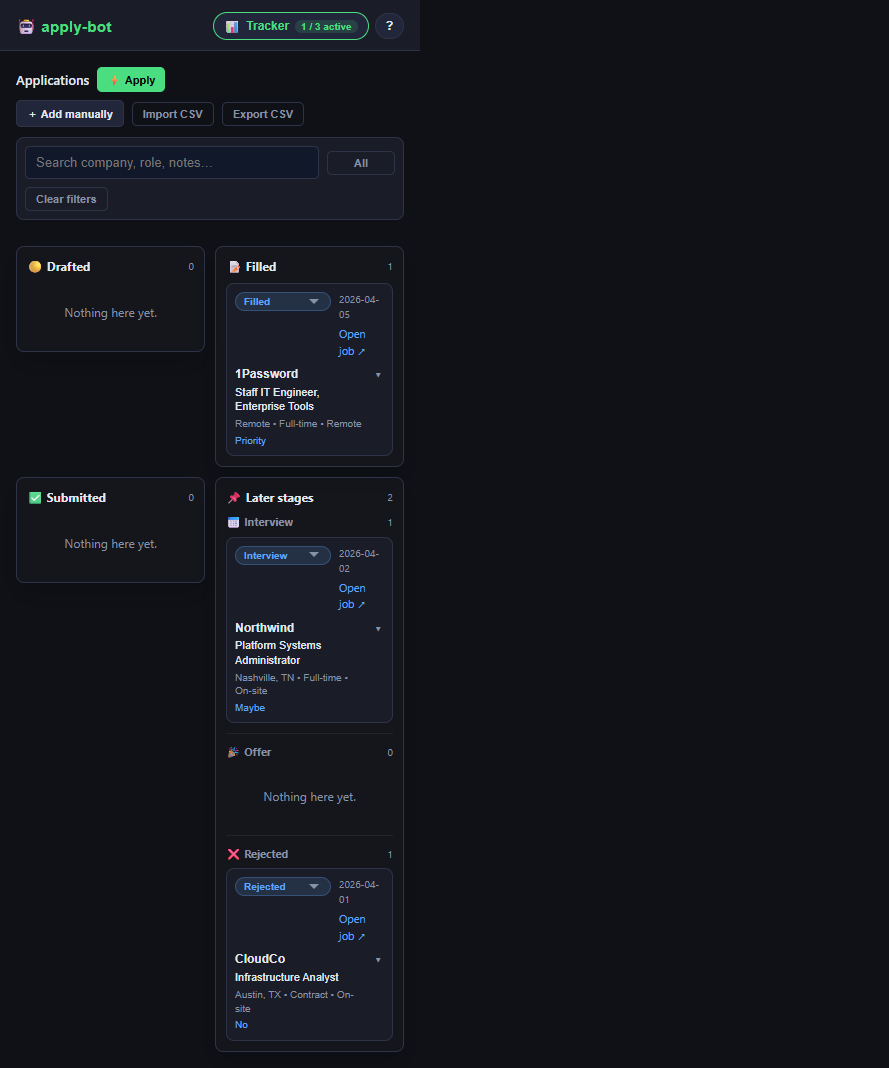
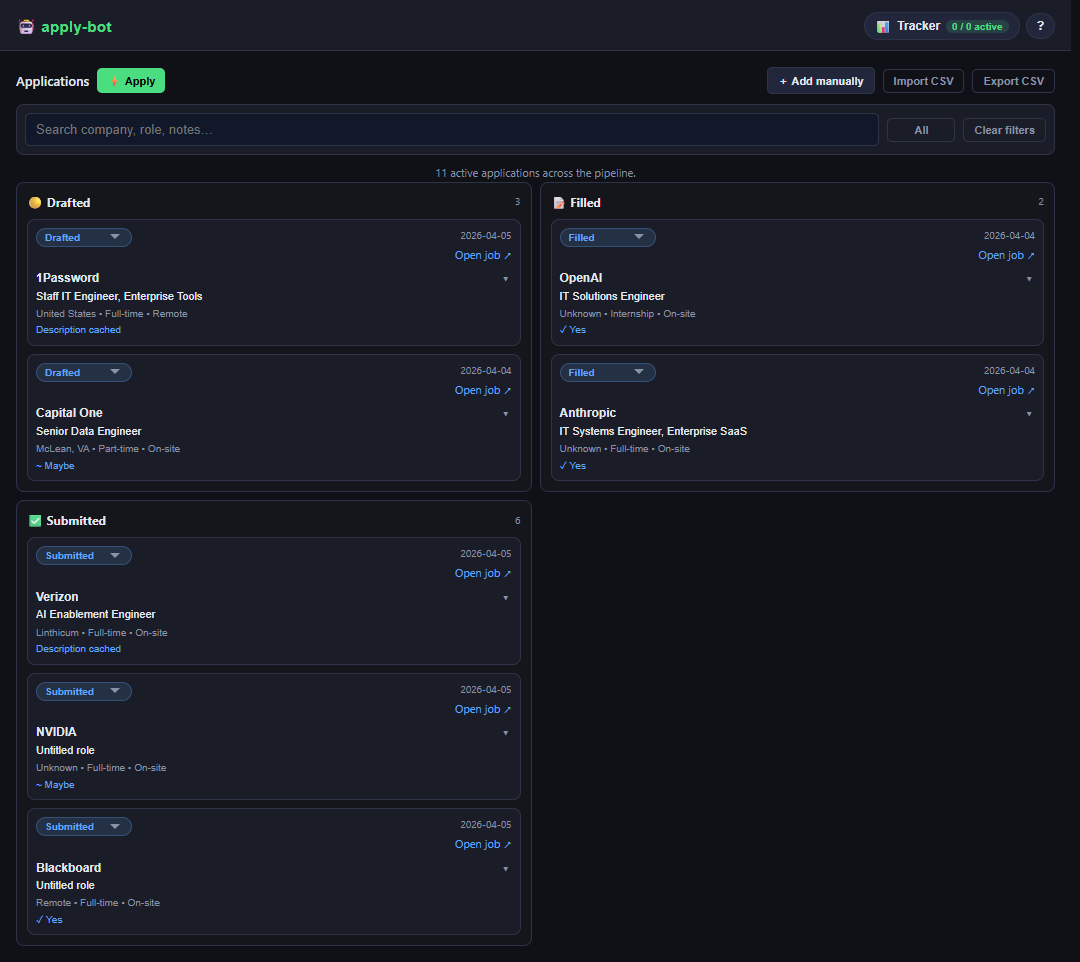
feat: densify tracker workspace board

diff --git a/popup/popup.css b/popup/popup.css
@@ -79,6 +79,11 @@ body[data-standalone="true"][data-screen="preview"] {
   min-height: 900px;
 }
 
+body[data-standalone="true"][data-screen="tracker"] {
+  width: calc(100vw - 24px);
+  min-height: calc(100vh - 16px);
+}
+
 #app {
   display: flex;
   flex-direction: column;
@@ -90,6 +95,10 @@ body[data-standalone="true"] #app {
   width: 100%;
   max-width: 1440px;
   margin: 0 auto;
+}
+
+body[data-standalone="true"][data-screen="tracker"] #app {
+  max-width: none;
 }
 
 /* ── Header ── */
@@ -810,9 +819,49 @@ body[data-standalone="true"][data-screen="setup"] .profile-side-column .memory-l
   align-items: start;
 }
 
+body[data-standalone="true"][data-screen="tracker"] .screen {
+  padding: 12px;
+}
+
+body[data-standalone="true"][data-screen="tracker"] .tracker-header {
+  position: sticky;
+  top: 0;
+  z-index: 5;
+  padding-bottom: 8px;
+  background: rgba(15, 17, 23, 0.96);
+}
+
+body[data-standalone="true"][data-screen="tracker"] .tracker-toolbar {
+  position: sticky;
+  top: 44px;
+  z-index: 4;
+  background: rgba(26, 29, 39, 0.96);
+  backdrop-filter: blur(8px);
+}
+
 body[data-standalone="true"][data-screen="tracker"] .tracker-list {
-  grid-template-columns: repeat(auto-fit, minmax(320px, 1fr));
+  grid-template-columns: repeat(4, minmax(0, 1fr));
   gap: 12px;
+}
+
+body[data-standalone="true"][data-screen="tracker"] .tracker-lane {
+  padding: 8px;
+}
+
+body[data-standalone="true"][data-screen="tracker"] .tracker-card {
+  padding: 7px;
+}
+
+body[data-standalone="true"][data-screen="tracker"] .tracker-card-header {
+  margin-bottom: 6px;
+}
+
+body[data-standalone="true"][data-screen="tracker"] .tracker-summary-meta {
+  margin-top: 2px;
+}
+
+body[data-standalone="true"][data-screen="tracker"] .tracker-summary-note {
+  margin-top: 2px;
 }
 
 .tracker-lane {
@@ -1237,6 +1286,12 @@ body[data-standalone="true"][data-screen="tracker"] .tracker-list {
   text-decoration: underline;
 }
 
+@media (max-width: 1400px) {
+  body[data-standalone="true"][data-screen="tracker"] .tracker-list {
+    grid-template-columns: repeat(3, minmax(0, 1fr));
+  }
+}
+
 @media (max-width: 1200px) {
   .tracker-list {
     grid-template-columns: repeat(2, minmax(0, 1fr));
@@ -1250,6 +1305,11 @@ body[data-standalone="true"][data-screen="tracker"] .tracker-list {
 
   .main-top-grid {
     grid-template-columns: 1fr;
+  }
+
+  body[data-standalone="true"][data-screen="tracker"] .tracker-header,
+  body[data-standalone="true"][data-screen="tracker"] .tracker-toolbar {
+    position: static;
   }
 
   .tracker-list,

diff --git a/popup/popup.js b/popup/popup.js
@@ -687,7 +687,19 @@ async function renderTracker() {
     },
   ];
 
-  tbody.innerHTML = lanes.map((lane) => renderTrackerLane(filteredApps, lane)).join('');
+  const visibleLanes = lanes.filter((lane) => getTrackerLaneCount(filteredApps, lane) > 0);
+  const lanesToRender = visibleLanes.length ? visibleLanes : lanes;
+  tbody.innerHTML = lanesToRender.map((lane) => renderTrackerLane(filteredApps, lane)).join('');
+}
+
+function getTrackerLaneCount(applications, lane) {
+  if (Array.isArray(lane.groups)) {
+    return lane.groups.reduce((sum, group) => {
+      return sum + applications.filter((app) => group.statuses.includes(normalizeTrackingStatus(app.status))).length;
+    }, 0);
+  }
+
+  return applications.filter((app) => lane.statuses.includes(normalizeTrackingStatus(app.status))).length;
 }
 
 function renderTrackerLane(applications, lane) {
@@ -712,9 +724,7 @@ function renderTrackerLane(applications, lane) {
       `;
     }).join('');
 
-    const total = lane.groups.reduce((sum, group) => {
-      return sum + applications.filter((app) => group.statuses.includes(normalizeTrackingStatus(app.status))).length;
-    }, 0);
+    const total = getTrackerLaneCount(applications, lane);
 
     return `
       <section class="tracker-lane tracker-lane-stacked">
